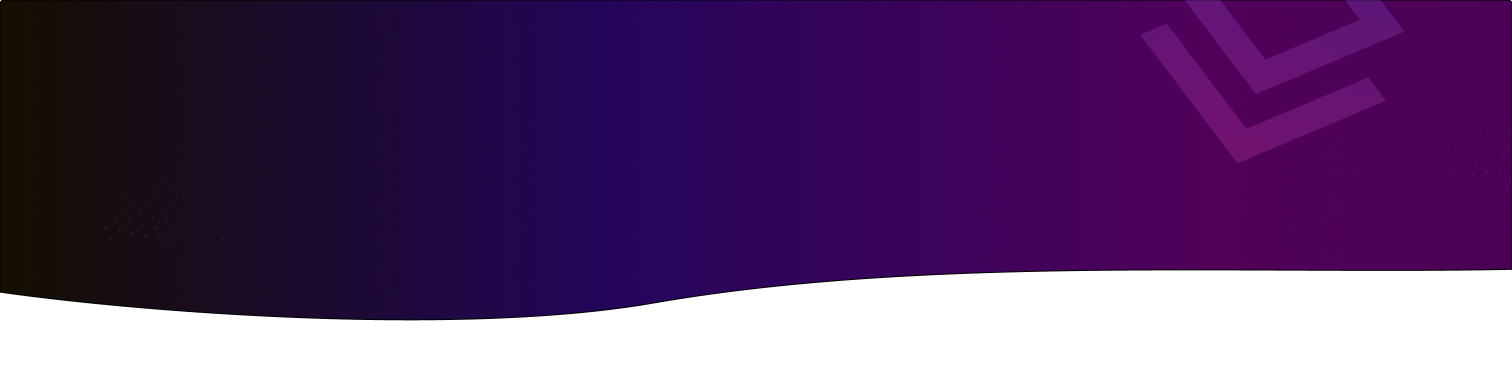
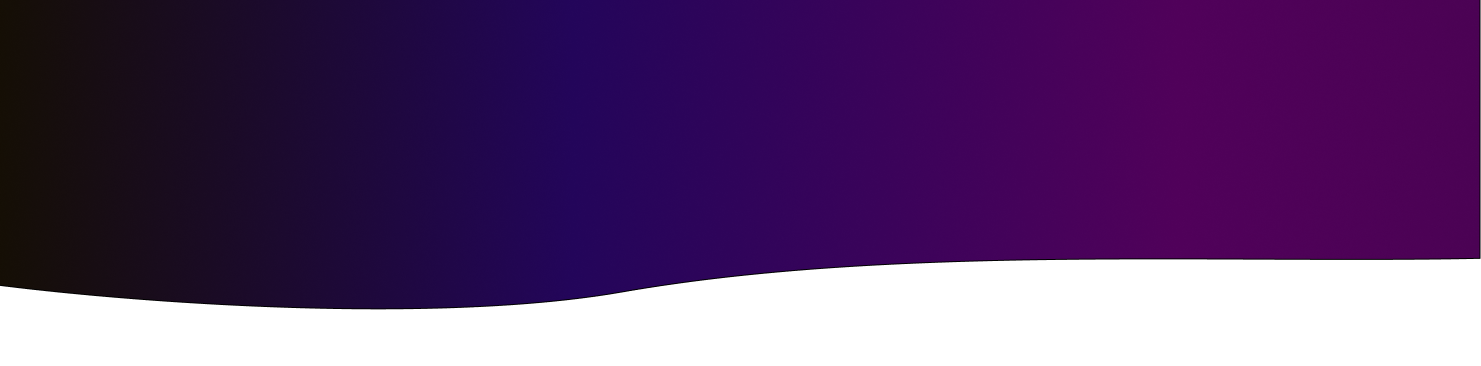
Final Changes

diff --git a/apps/retail-app/src/components/quicktransfer-component/quick-transfer-widget.jsx b/apps/retail-app/src/components/quicktransfer-component/quick-transfer-widget.jsx
@@ -33,6 +33,7 @@ function QuickTransfer() {
   let [account, setAccount] = useState("");
   let [memo, setMemo] = useState("");
   let [response, setResponse] = useState(null);
+  let [isChecked, setIsChecked] = useState(false);
 
   const getPayees = useCallback(async () => {
     try {
@@ -178,8 +179,9 @@ function QuickTransfer() {
     }
   }
 
-  const checkBoxStatus = (value) => {
-    if (value){
+  const checkBoxStatus = () => {
+    setIsChecked(!isChecked);
+    if (isChecked){
       setDisabled(true);
     }
     else {
@@ -241,12 +243,11 @@ function QuickTransfer() {
             <div className="sendto">
               <fds-autocomplete onInput={e => handlePayee(e)} icon="person" placeholder="Choose a person...">
                 {options.map((option) => 
-                  <mwc-list-item value={option.payeeName} onClick={e => itemClickPayee(option)}>{option.payeeName}</mwc-list-item>
-                  )}
+                  <mwc-list-item value={option.payeeName} onClick={e => itemClickPayee(option)}>{option.payeeName}</mwc-list-item>)}
               </fds-autocomplete>
             </div>
             <div className="amount">
-              <fds-textfield onInput={e => handleAmount(e)} icon="money" label="Amount" labelinside="true" validationmessage="Should be in the format x.x" pattern="^[0-9]*[.][0-9]*$"></fds-textfield>
+              <fds-textfield onInput={e => handleAmount(e)} icon="money" label="Amount" labelinside="true" validationmessage="Should be a number" pattern="([0-9]*[.])?[0-9]+"></fds-textfield>
             </div>
             <div className="button">
               <fds-button label="Send" icon="check" onClick={openDialogButton}>
@@ -280,11 +281,11 @@ function QuickTransfer() {
       >
         <Alert severity="success">{response}</Alert>
       </Snackbar>
-     <fds-dialog open={agreementState} heading="Terms and condition agreement" scrimClickAction="">
+      <fds-dialog open={agreementState} heading="Terms and condition agreement" scrimClickAction="">
         <p>To be able to access this app, you must first agree to the terms and conditions:</p>
         <div className="agreement">
-          <fds-checkbox  onClick={e => checkBoxStatus(e.target.checked)}/>
-          <span> I agree to the terms and conditions </span>
+          <fds-checkbox type="checkbox" id="check34" onClick={checkBoxStatus}/>
+          <label htmlFor="check34">I agree to the terms and conditions</label>
         </div>
         <fds-button secondary="" label="Confirm" slot="primaryAction" disabled={disabled} onClick={handleAgreement}></fds-button>
       </fds-dialog>

diff --git a/apps/retail-app/src/index.html b/apps/retail-app/src/index.html
@@ -9,43 +9,20 @@
       name="description"
       content="Web site created using create-react-app"
     />
-    <!--
-      manifest.json provides metadata used when your web app is installed on a
-      user's mobile device or desktop. See https://developers.google.com/web/fundamentals/web-app-manifest/
-    -->
     <link href='https://fonts.googleapis.com/icon?family=Material+Icons' rel='stylesheet'>
     <link rel="preconnect" href="https://fonts.googleapis.com" />
     <link rel="preconnect" href="https://fonts.gstatic.com" crossorigin />
     <link href="https://fonts.googleapis.com/css2?family=Roboto:wght@300;400;500;700&family=Spartan:wght@800&display=swap" rel="stylesheet" />
 
-    <!--
-      Notice the use of %PUBLIC_URL% in the tags above.
-      It will be replaced with the URL of the `public` folder during the build.
-      Only files inside the `public` folder can be referenced from the HTML.
-
-      Unlike "/favicon.ico" or "favicon.ico", "%PUBLIC_URL%/favicon.ico" will
-      work correctly both with client-side routing and a non-root public URL.
-      Learn how to configure a non-root public URL by running `npm run build`.
-    -->
     <title>React App</title>
   </head>
   <body>
     <noscript>You need to enable JavaScript to run this app.</noscript>
     <div id="root"></div>
-    <!--
-      This HTML file is a template.
-      If you open it directly in the browser, you will see an empty page.
 
-      You can add webfonts, meta tags, or analytics to this file.
-      The build step will place the bundled scripts into the <body> tag.
-
-      To begin the development, run `npm start` or `yarn start`.
-      To create a production bundle, use `npm run build` or `yarn build`.
-    -->
     <script src="src/vendor/webcomponents-bundle.js"></script>  
     <script>if (!window.customElements) { document.write("<!--"); }</script>  
     <script src="src/vendor/custom-elements-es5-adapter.js"></script>  
-    
     <!-- DO NOT REMOVE THIS COMMENT, WE NEED ITS CLOSING MARKER -->
   </body>
 </html>

diff --git a/apps/retail-app/src/components/transaction-component/transaction-widget.jsx b/apps/retail-app/src/components/transaction-component/transaction-widget.jsx
@@ -6,8 +6,8 @@ import '@finastra/circular-progress';
 import { useEffect } from 'react';
 import { useState, useCallback } from 'react';
 import { Grid } from '@mui/material';
-import DateItem from './date-item.js';
-import Transaction from './transaction.js';
+import DateItem from './date-item.jsx';
+import Transaction from './transaction.jsx';
 
 
 function Sheet() {
@@ -135,6 +135,7 @@ function Sheet() {
 
   const filterTransactions = (e) => {
     const keyword = e.target.value;
+    setDesc(keyword);
 
     if (keyword != '') {
       const results = {}
@@ -148,7 +149,6 @@ function Sheet() {
     } else {
       setFoundTransactions(transactions);
     }
-    setDesc(keyword);
   }
 
   useEffect(() => {
@@ -176,7 +176,8 @@ function Sheet() {
             </Grid>
             <Grid item xs={12} md={4} >
               <div className="search-input">
-                <fds-search-input dense value={desc} onInput={filterTransactions}></fds-search-input>
+                <fds-search-input dense value={desc} onInput={(e) => filterTransactions(e)}></fds-search-input>
+                <span>{desc}</span>
               </div>
             </Grid>
             <Grid item xs={12} md={12}>

diff --git a/apps/retail-app/src/app/app.jsx b/apps/retail-app/src/app/app.jsx
@@ -135,10 +135,11 @@ const getAccounts = useCallback(async () => {
           <fds-icon-button icon="more_vert" slot="actions"></fds-icon-button>
         </fds-app-bar>
         <div className="header">
+          <div className="header-pattern">
+            <img src={require("../assets/Header-Pattern.png")}/>
+          </div>
           <div className="header-title dark-theme">
-            <div className="header-icon">
-              <img width={64} height={64} src={require("../assets/Header-Icon.png")}/>
-            </div>
+            <img width={64} height={64} src={require("../assets/Header-Icon.png")}/>
             <div className="app-title">
               <span>Retail app</span>
               <div className="welcome-msg">

diff --git a/apps/retail-app/src/app/app.scss b/apps/retail-app/src/app/app.scss
@@ -38,15 +38,19 @@ fds-user-profile fds-button + fds-button {
   background-size: cover;
   @include fds.property(background-color,  background);
   width: 100%;
+  overflow: hidden;
+  position: relative;
 }
 
 .header-title{
   @include fds.padding(5);
-  @include fds.padding(6, top);
+  display: flex;
+  align-items: center;
 }
 
-.header-icon{
-  float: left;
+.header-pattern{
+  position: absolute;
+  right: 0px;
 }
 
 .app-title{

diff --git a/apps/retail-app/src/styles.scss b/apps/retail-app/src/styles.scss
@@ -23,6 +23,10 @@ body {
         .search-input{
             justify-content: flex-start;
         }
+
+        .header-pattern {
+            right: -170px;
+        }
     }
     
 }
@@ -53,6 +57,10 @@ body {
 
         .transaction-list{
             max-height: 400px;
+        }
+
+        .header-pattern {
+            right: -240px;
         }
     }
     

diff --git a/apps/retail-app/src/components/carousel-component/carousel-component.scss b/apps/retail-app/src/components/carousel-component/carousel-component.scss
@@ -11,7 +11,7 @@
 .carousel-wrapper {
     display: flex;
     position: relative;
-    @include fds.padding(3, top, bottom);
+    @include fds.padding(3, bottom);
 }
 
 .carousel-content-wrapper {

diff --git a/apps/retail-app/src/components/quicktransfer-component/quick-transfer-widget.scss b/apps/retail-app/src/components/quicktransfer-component/quick-transfer-widget.scss
@@ -67,7 +67,11 @@ fds-select{
 }
 
 fds-dialog{
-    --fds-dialog-min-width: 400px;
+    --fds-dialog-max-width: calc(100% - 32px);
+}
+
+fds-autocomplete{
+    --fds-menu-max-height: 50px;
 }
 
 
